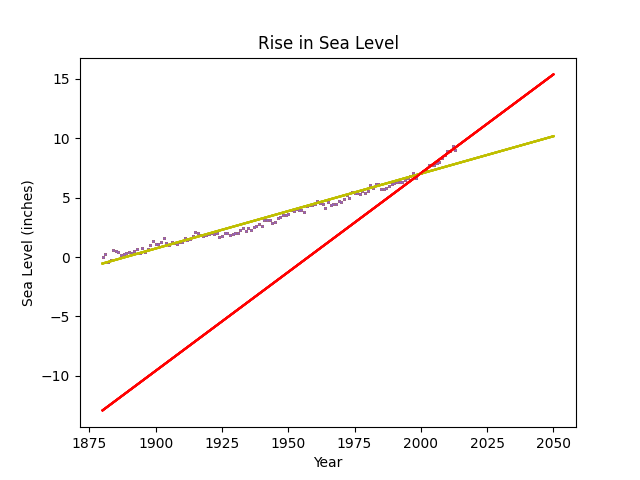
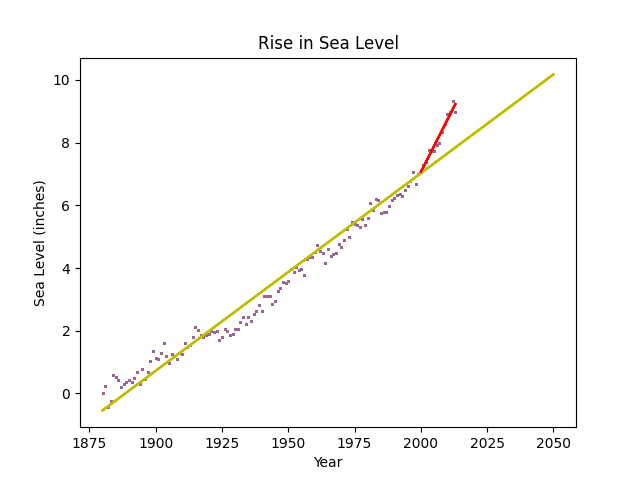
modified:   sea_level_plot.png modified:   sea_level_predictor.py

diff --git a/sea_level_predictor.py b/sea_level_predictor.py
@@ -30,10 +30,9 @@ def draw_plot():
     intercept_2 = lin_regress_2.intercept
     slope_2 = lin_regress_2.slope
 
-    x_2 = x_1
-    y_2 = intercept_2 + slope_2 * x_2
+    y_2 = intercept_2 + slope_2 * x
 
-    plt.plot(x_2, y_2, 'r')
+    plt.plot(x, y_2, 'r')
 
     # Add labels and title
     plt.title('Rise in Sea Level')
